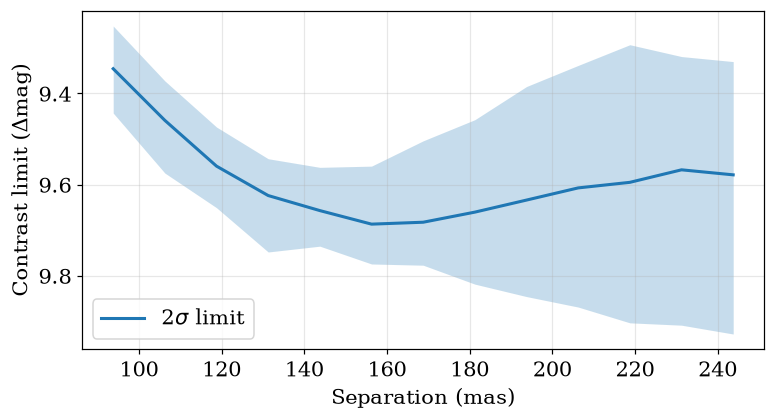
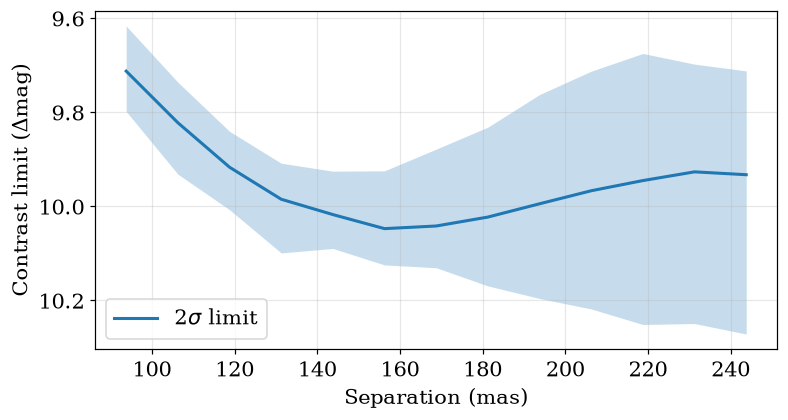
BinaryPipeline limits default to Ruffio et al. (2018)
New setting limit_method ("ruffio" default, or "absil"). Ruffio reuses the
search stage's flux_best and flux_sigma (recomputed if missing or on another
grid), at the norm.cdf(sigma) quantile on the quoted errors, with the same
resolution mask. Docs, contrast-limits tutorial (re-executed) and tests.

diff --git a/src/virgil/pipeline/binary.py b/src/virgil/pipeline/binary.py
@@ -146,7 +146,8 @@ class BinaryPipeline(_Pipeline):
 
     Stages: ``load``, ``overview``, ``search`` (point-companion grid,
     [`detection_statistics`][virgil.detection.detection_statistics]),
-    ``limits`` ([`absil_limits`][virgil.limits.absil_limits]), ``fit``,
+    ``limits`` ([`ruffio_upperlimit`][virgil.limits.ruffio_upperlimit] by
+    default, or [`absil_limits`][virgil.limits.absil_limits]), ``fit``,
     ``posterior`` (NUTS, same prior as the fit) and ``quicklook``.
     ``res.summary["companion"]`` has ``sep_mas`` and ``pa_deg`` for either
     template. Settings:
@@ -165,7 +166,8 @@ class BinaryPipeline(_Pipeline):
         Run folder (default ``"run"``).
     **settings
         Overrides of ``BinaryPipeline.defaults()``. The most used: ``sigma``
-        (significance of the contrast limits, 3.0), ``max_sep_mas`` (search
+        (significance of the contrast limits, 3.0), ``limit_method``
+        (``"ruffio"``, the default, or ``"absil"``), ``max_sep_mas`` (search
         half-width in mas; default the coarsest λ/B, capped on lattice
         coverage), ``grid_step_mas``, ``flux_range`` (companion/primary, 1e-5 to 1; a
         brighter companion is the primary under relabelling), ``error_scale``
@@ -213,6 +215,7 @@ class BinaryPipeline(_Pipeline):
         "seed": 0,
         "batch_size": None,
         "limit_bins": 20,
+        "limit_method": "ruffio",
         "quicklook_execute": True,
     }
 
@@ -256,6 +259,8 @@ class BinaryPipeline(_Pipeline):
         _pair(s, "flux_range")
         if s["error_scale"] not in ("quoted", "fit"):
             raise ValueError('error_scale must be "quoted" or "fit".')
+        if s["limit_method"] not in ("ruffio", "absil"):
+            raise ValueError('limit_method must be "ruffio" or "absil".')
         _validate_common(s)
 
     # --- shared state, rebuilt on demand so that resume works ------------
@@ -550,25 +555,41 @@ def _search_report(data, grid, axis, detection, settings):
 
 
 def _limits(p):
+    """Contrast limits at ``sigma``: Ruffio et al. (2018) or Absil et al. (2011).
+
+    Ruffio is the search's flux and Laplace σ, truncated to ``f >= 0``, at the
+    ``norm.cdf(sigma)`` quantile, on the quoted errors with no error-scale
+    rescale (a deliberate choice for now).
+
+    Source: Ruffio et al. (2018), [references](../references.md#ruffio2018).
+    """
+    from scipy.stats import norm
+
     from ..limits import (
         absil_limits,
         flux_to_delta_mag,
         radial_profile,
+        ruffio_upperlimit,
     )
     from ..models import BinaryModelCartesian
     from ..plotting import plot_contrast_curve, plot_grid_map
 
     s = p.settings
     grid, max_sep = p._grid(), p._grid_axis().max_sep
-    limit = onp.asarray(
-        absil_limits(
+    search = _io.read_h5(p.output / "grids.h5", "search")
+    method = s["limit_method"]
+    if method == "ruffio":
+        flux, sigma = _search_flux(p, grid, search)
+        limit = ruffio_upperlimit(flux, sigma, norm.cdf(s["sigma"]))
+    else:
+        limit = absil_limits(
             BinaryModelCartesian,
             p.processed,
             grid,
             s["sigma"],
             batch_size=s["batch_size"],
         )
-    )
+    limit = onp.asarray(limit)
     dra, ddec = onp.asarray(grid["dra"]), onp.asarray(grid["ddec"])
     # Inside the resolution limit separation and flux are degenerate: NaN.
     r = onp.hypot(*onp.meshgrid(dra, ddec, indexing="ij"))
@@ -578,11 +599,11 @@ def _limits(p):
         limit, dra, ddec, r_max=max_sep, bins=s["limit_bins"]
     )
     # write_h5 cannot append: rewrite the file with the search group read back.
-    meta = {"sigma": s["sigma"], "method": "absil"}
+    meta = {"sigma": s["sigma"], "method": method}
     _write_grids(
         p.output,
         grid,
-        search=_io.read_h5(p.output / "grids.h5", "search"),
+        search=search,
         limits={"limit_flux": (limit, meta)},
     )
     fig, _ = plot_grid_map(
@@ -595,12 +616,26 @@ def _limits(p):
     delta_mag = onp.asarray(flux_to_delta_mag(median), dtype=float)
     return {
         "sigma": s["sigma"],
-        "method": "absil",
+        "method": method,
         "r_mas": profile["r"],
         "median_flux": median,
         "median_delta_mag": delta_mag,
         "deepest_delta_mag": float(onp.nanmax(delta_mag)),
     }
+
+
+def _search_flux(p, grid, search):
+    """``(flux_best, flux_sigma)`` of the search stage, recomputed when its
+    maps are missing or on another grid."""
+    axes = _io.read_h5(p.output / "grids.h5", "axes")
+    same = all(
+        k in axes and onp.array_equal(axes[k], onp.asarray(grid[k]))
+        for k in ("dra", "ddec")
+    )
+    if same and {"flux_best", "flux_sigma"} <= search.keys():
+        return search["flux_best"], search["flux_sigma"]
+    maps = _search_maps(p.processed, grid, p.settings["batch_size"])
+    return maps["flux_best"], maps["flux_sigma"]
 
 
 # --- fit ---

diff --git a/tests/test_pipeline_binary.py b/tests/test_pipeline_binary.py
@@ -116,6 +116,7 @@ DEFAULTS = {
     "seed": 0,
     "batch_size": None,
     "limit_bins": 20,
+    "limit_method": "ruffio",
     "quicklook_execute": True,
 }
 SUMMARY_KEYS = {
@@ -234,6 +235,8 @@ def test_settings_are_validated(data):
         BinaryPipeline(data, sigma=-1.0)
     with pytest.raises(ValueError, match="error_scale"):
         BinaryPipeline(data, error_scale="rescaled")
+    with pytest.raises(ValueError, match="limit_method"):
+        BinaryPipeline(data, limit_method="injection")
     with pytest.raises(TypeError, match="unknown settings"):
         BinaryPipeline(data, num_sample=10)
     with pytest.raises(TypeError, match="BinaryModelAngular"):
@@ -349,6 +352,79 @@ def test_quicklook_notebook(full_run):
 def _started(out):
     run = json.loads((out / "run.json").read_text())
     return {k: v["started"] for k, v in run["stages"].items()}, run
+
+
+def _limits_meta(out):
+    from virgil.pipeline import _io
+
+    return _io.read_h5_attrs(out / "grids.h5", "limits/limit_flux")
+
+
+def _resolution_mask(pipeline, grid):
+    from virgil.pipeline._common import _geometry
+
+    dra, ddec = (onp.asarray(grid["axes"][k]) for k in ("dra", "ddec"))
+    r = onp.hypot(*onp.meshgrid(dra, ddec, indexing="ij"))
+    return r < _geometry(pipeline.processed)["resolution_mas"]
+
+
+def test_ruffio_limits_are_the_default_on_the_search_maps(full_run):
+    """Default limits: ruffio_upperlimit on the search's flux_best and
+    flux_sigma at norm.cdf(sigma), NaN inside the resolution limit."""
+    from scipy.stats import norm
+    from virgil.limits import ruffio_upperlimit
+    from virgil.pipeline.binary import _search_flux
+
+    pipeline, res = full_run
+    assert res.summary["limits"]["method"] == "ruffio"
+    assert _limits_meta(pipeline.output)["method"] == "ruffio"
+    grid = res.grid()
+    want = onp.asarray(
+        ruffio_upperlimit(
+            grid["flux_best"],
+            grid["flux_sigma"],
+            norm.cdf(pipeline.settings["sigma"]),
+        )
+    )
+    inside = _resolution_mask(pipeline, grid)
+    assert inside.any() and (~inside).any()
+    assert onp.isnan(grid["limit_flux"][inside]).all()
+    onp.testing.assert_allclose(grid["limit_flux"][~inside], want[~inside])
+
+    # Without stored search maps the same flux and sigma are recomputed.
+    with warnings.catch_warnings():
+        warnings.simplefilter("ignore")
+        flux, sigma = _search_flux(pipeline, pipeline._grid(), {})
+    onp.testing.assert_allclose(flux, grid["flux_best"], rtol=1e-6)
+    onp.testing.assert_allclose(sigma, grid["flux_sigma"], rtol=1e-6)
+
+
+@pytest.mark.slow
+def test_absil_limit_method_reproduces_the_absil_limits(data, tmp_path):
+    """limit_method="absil": absil_limits at sigma, NaN inside the resolution
+    limit (the stage's output before Ruffio became the default)."""
+    from virgil.limits import absil_limits
+
+    out = tmp_path / "run"
+    settings = dict(TINY, quicklook_execute=False, limit_method="absil")
+    pipeline = BinaryPipeline(data, output=out, **settings)
+    with warnings.catch_warnings():
+        warnings.simplefilter("ignore")
+        res = pipeline.run(through="limits")
+        want = onp.asarray(
+            absil_limits(
+                BinaryModelCartesian,
+                pipeline.processed,
+                pipeline._grid(),
+                pipeline.settings["sigma"],
+            )
+        )
+    assert res.summary["limits"]["method"] == "absil"
+    assert _limits_meta(out)["method"] == "absil"
+    grid = res.grid()
+    inside = _resolution_mask(pipeline, grid)
+    want = onp.where(inside, onp.nan, want)
+    onp.testing.assert_allclose(grid["limit_flux"], want)
 
 
 def test_resume_skips_completed_stages(data, tmp_path, monkeypatch):

diff --git a/docs/contrast_limits.md b/docs/contrast_limits.md
@@ -99,6 +99,10 @@ samples = {
 opt_flux = optimized_flux_grid(BinaryModelCartesian, oidata_sim, samples)
 ```
 
+```text
+RuntimeWarning: optimized_flux_grid(): the optimizer did not converge at 244 of 3721 grid positions; values there may be inaccurate.
+```
+
 ## Ruffio Contrast Limits
 
 The [Ruffio et al 2018](https://ui.adsabs.harvard.edu/abs/2018AJ....156..196R/abstract) method is Bayesian: infer the Gaussian posterior on a companion's flux, impose a positive-flux prior, and report a chosen percentile as the upper limit, *conditioned on the astrometry being right and a source being there*.
@@ -164,7 +168,7 @@ ax.set_title("Radial contrast limits: Ruffio vs Absil");
 
 ## As a pipeline
 
-The search grid, Absil limits and contrast curve are the `search` and `limits` stages of [`BinaryPipeline`](pipeline.md), so running it `through="limits"` stops before the fit and sampler, which a non-detection does not need. The cell below uses the same $\pm 250$ mas grid of 61 points per axis, the same flux axis and $\sigma = 2$. The pipeline blanks grid points inside the resolution limit, where separation and flux are degenerate, so compare its limit map with the hand-computed Absil map where both are defined. The contrast curve is one of the pipeline's plots.
+The search grid, Ruffio limits and contrast curve are the `search` and `limits` stages of [`BinaryPipeline`](pipeline.md), so running it `through="limits"` stops before the fit and sampler, which a non-detection does not need. The cell below uses the same $\pm 250$ mas grid of 61 points per axis, the same flux axis and $\sigma = 2$. The pipeline blanks grid points inside the resolution limit, where separation and flux are degenerate, so compare its limit map with the hand-computed Ruffio map where both are defined; `limit_method="absil"` gives the Absil map instead. The contrast curve is one of the pipeline's plots.
 
 ```python
 from tempfile import mkdtemp
@@ -188,7 +192,7 @@ display(Image(filename=str(res.path / "plots" / "limits_contrast_curve.png")))
 ```
 
 ```text
-BinaryPipeline run in /var/folders/19/fbthdtcx20d3xyc7y7vp_2v40000gn/T/tmpk6xqpibo/limits_run: partial
+BinaryPipeline run in /var/folders/19/fbthdtcx20d3xyc7y7vp_2v40000gn/T/tmp37xwpjqk/limits_run: partial
   data.n_vis = 21
   data.n_phi = 35
   data.n_independent = 36
@@ -204,21 +208,21 @@ BinaryPipeline run in /var/folders/19/fbthdtcx20d3xyc7y7vp_2v40000gn/T/tmpk6xqpi
   search.log_bayes_factor = -0.349728
   search.max_snr = 2.65709
   search.local_nsigma = 2.65635
-  search.global_nsigma = 1.19582
-  search.false_alarm_probability = 0.115884
-  search.n_null = 1000
-  search.n_null_above = 115
+  search.global_nsigma = 0.99969
+  search.false_alarm_probability = 0.15873
+  search.n_null = 125
+  search.n_null_above = 19
   search.dra_mas = -100
   search.ddec_mas = -175
   search.flux = 8.28444e-05
   search.max_sep_mas = 250
   limits.sigma = 2
-  limits.deepest_delta_mag = 9.6868
+  limits.deepest_delta_mag = 10.0473
   [pass] chi2: χ²/N = 0.614 for the star alone on quoted errors: consistent with the quoted errors.
   [warn] detection: No companion above 3σ (2.66σ local): the fit and posterior describe the highest noise peak; quote the contrast limits instead.
   [pass] grid_edge: The grid peak lies inside the searched grid.
-  [warn] limits_clipped: 1 limits fell outside the flux bounds and were clipped to the nearer bound: those limits are not the true limits; widen flux_range.
-  1 warning(s) recorded in the limits stage(s) (see the checks, or Result.summary['warnings'])
+  [warn] convergence: The optimizer did not converge at 243 of 3721 grid positions (6.5 per cent): values there may be inaccurate.
+  2 warning(s) recorded in the search stage(s) (see the checks, or Result.summary['warnings'])
 ```
 
 ![contrast_limits output 15.2](generated/contrast_limits_cell015_out02.png)

diff --git a/docs/pipeline.md b/docs/pipeline.md
@@ -43,7 +43,7 @@ A run resumes by default: a completed stage whose outputs exist is skipped, and 
 | `load` | Applies `wavel_range` and `error_floor`, and writes the data that are fitted | `OIData.select`, `OIData.with_error_floor`, `write_oifits` |
 | `overview` | Plots the data and the uv coverage | `plot_oidata_overview`, `plot_uv_coverage` |
 | `search` | Delta chi-squared, best flux and SNR maps on a point-companion grid, with the significance of the peak locally and globally (against simulated companion-free searches at the quoted errors, so the look-elsewhere effect is included) | `detection_statistics`, `optimized_likelihood_grid`, `local_nsigma` |
-| `limits` | Contrast limits at `sigma` and their radial profile | `absil_limits`, `radial_profile` |
+| `limits` | Contrast limits at `sigma` and their radial profile: by default Ruffio et al. (2018), the search's best flux and its Laplace σ as a Gaussian truncated to flux ≥ 0, at the `norm.cdf(sigma)` quantile; `limit_method="absil"` gives Absil et al. (2011) | `ruffio_upperlimit`, `absil_limits`, `radial_profile` |
 | `fit` | MAP fit of the model template from the best grid point | `fit` |
 | `posterior` | NUTS from the fit | `numpyro_model`, `chain_init_params` |
 | `quicklook` | Writes and executes `quicklook.ipynb` | `load` |
@@ -74,6 +74,7 @@ The fit is on the quoted errors unless `error_scale="fit"`, and chi-squared per 
 | `chain_method` (`"vectorized"`), `seed` (0) | NUTS chain method and random seed. |
 | `batch_size` (`None`) | Grid batch size. |
 | `limit_bins` (20) | Annuli of the contrast curve. |
+| `limit_method` (`"ruffio"`) | `"ruffio"` (posterior quantile, on the quoted errors with no error-scale rescale) or `"absil"` (the chi-squared test). See [detection limits](detection_limits.md). |
 | `quicklook_execute` (`True`) | Execute the quicklook notebook. |
 
 The search and the limits always use a point companion in Cartesian offsets; the model template (`BinaryModelAngular` or `BinaryModelCartesian`) sets only the parameters of the fit and the posterior.

diff --git a/changelog.d/+pipeline-ruffio-limits.default.md b/changelog.d/+pipeline-ruffio-limits.default.md
@@ -1,0 +1,1 @@
+`BinaryPipeline` contrast limits (`limits` stage) now default to Ruffio et al. (2018): the search's best flux and Laplace σ on the quoted errors, a Gaussian truncated to flux ≥ 0, at the `norm.cdf(sigma)` quantile. The contrast-limits tutorial's deepest limit goes from 9.69 to 10.05 mag. `limit_method="absil"` restores the Absil et al. (2011) chi-squared limits; `summary["limits"]["method"]` and the `grids.h5` meta record which was used.
